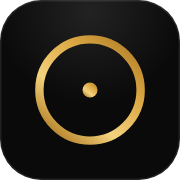
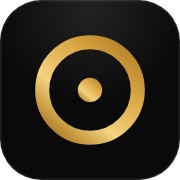
Unificar la marca en las proporciones de la referencia
El ícono de la app usaba un aro fino y el encabezado uno grueso. La
referencia que pasó el usuario corresponde al grueso, así que ahora esa
geometría se usa en los dos lados: una sola marca en toda la app.

Las proporciones se midieron sobre la imagen de referencia leyendo sus
píxeles en las dos direcciones — aro de radio 51, grosor 15, maza 13 sobre
un lienzo de 192 — y el resultado las reproduce dentro de un píxel.

Claude-Session: https://claude.ai/code/session_01CU2WqosWqRh8t7YXoCa56s

Changed region(s): [[0.2222, 0.2222, 0.7778, 0.7778], [0.4167, 0.4167, 0.5833, 0.5833]]

diff --git a/index.html b/index.html
@@ -29,7 +29,7 @@
 </defs>
 <rect width="192" height="192" rx="44" fill="#0A0A0B"/>
 <rect x="1" y="1" width="190" height="190" rx="43.5" fill="none" stroke="#ffffff" stroke-opacity="0.12" stroke-width="2"/>
-<circle cx="96" cy="96" r="52" fill="none" stroke="url(#lgo)" stroke-width="15"/>
+<circle cx="96" cy="96" r="51" fill="none" stroke="url(#lgo)" stroke-width="15"/>
 <circle cx="96" cy="96" r="13" fill="url(#lgo)"/>
 </svg>
       <div>
